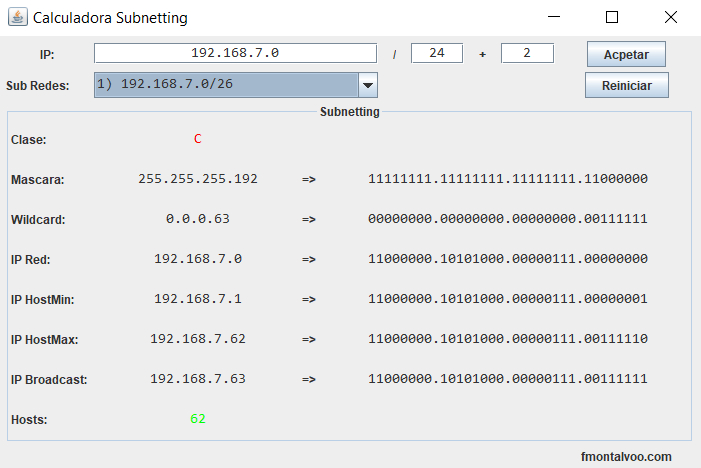
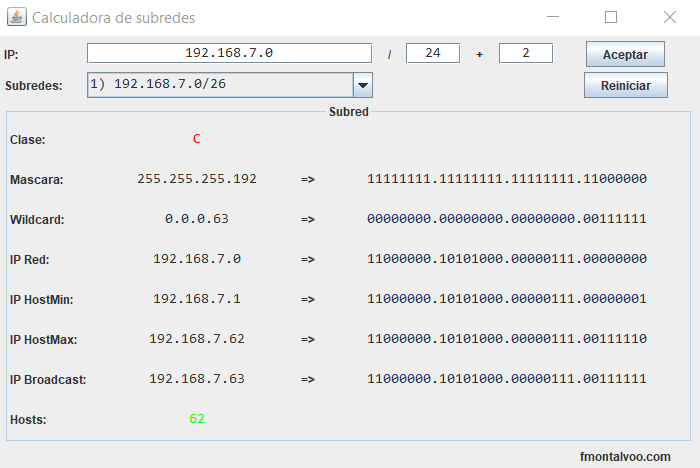
Internacionalizo aplicacion.

diff --git a/src/com/fmontalvoo/vista/Ventana.java b/src/com/fmontalvoo/vista/Ventana.java
@@ -5,6 +5,7 @@ import java.awt.Font;
 import java.awt.GridBagConstraints;
 import java.awt.GridBagLayout;
 import java.awt.Insets;
+import java.util.ResourceBundle;
 
 import javax.swing.JButton;
 import javax.swing.JComboBox;
@@ -22,6 +23,8 @@ import com.fmontalvoo.conversor.Conversor;
 public class Ventana extends JFrame {
 
 	private static final long serialVersionUID = 2375984707135285564L;
+
+	public static final String PROPERTIES = "com.fmontalvoo.i18n.Etiquetas";
 	private final String CONSOLAS = "Consolas";
 
 	private JPanel contentPane;
@@ -70,7 +73,7 @@ public class Ventana extends JFrame {
 	}
 
 	public Ventana() {
-		setTitle("Calculadora Subnetting");
+		setTitle(ResourceBundle.getBundle(PROPERTIES).getString("tituloVentana"));
 		setDefaultCloseOperation(JFrame.EXIT_ON_CLOSE);
 		setBounds(100, 100, 720, 480);
 		contentPane = new JPanel();
@@ -85,10 +88,10 @@ public class Ventana extends JFrame {
 		gbl_contentPane.rowWeights = new double[] { 0.0, 0.0, 0.0, 10.0, 0.0, Double.MIN_VALUE };
 		contentPane.setLayout(gbl_contentPane);
 
-		JLabel lblIP = new JLabel("IP:");
+		JLabel lblIP = new JLabel(ResourceBundle.getBundle(PROPERTIES).getString("lblIP") + ":");
 		GridBagConstraints gbc_lblIP = new GridBagConstraints();
 		gbc_lblIP.insets = new Insets(0, 0, 5, 5);
-		gbc_lblIP.anchor = GridBagConstraints.CENTER;
+		gbc_lblIP.anchor = GridBagConstraints.WEST;
 		gbc_lblIP.gridx = 0;
 		gbc_lblIP.gridy = 0;
 		gbc_lblIP.weightx = 1;
@@ -150,7 +153,7 @@ public class Ventana extends JFrame {
 		contentPane.add(txtBits, gbc_txtBits);
 		txtBits.setColumns(1);
 
-		btnAceptar = new JButton("Acpetar");
+		btnAceptar = new JButton(ResourceBundle.getBundle(PROPERTIES).getString("btnAceptar"));
 		GridBagConstraints gbc_btnAceptar = new GridBagConstraints();
 		gbc_btnAceptar.insets = new Insets(0, 0, 5, 0);
 		gbc_btnAceptar.gridx = 6;
@@ -158,7 +161,7 @@ public class Ventana extends JFrame {
 		gbc_btnAceptar.weightx = 2;
 		contentPane.add(btnAceptar, gbc_btnAceptar);
 
-		lblSubRedes = new JLabel("Sub Redes:");
+		lblSubRedes = new JLabel(ResourceBundle.getBundle(PROPERTIES).getString("lblSubRedes") + ":");
 		GridBagConstraints gbc_lblSubRedes = new GridBagConstraints();
 		gbc_lblSubRedes.anchor = GridBagConstraints.WEST;
 		gbc_lblSubRedes.insets = new Insets(0, 0, 5, 5);
@@ -177,7 +180,7 @@ public class Ventana extends JFrame {
 		gbc_cbxSubRedes.weightx = 5;
 		contentPane.add(cbxSubRedes, gbc_cbxSubRedes);
 
-		btnReiniciar = new JButton("Reiniciar");
+		btnReiniciar = new JButton(ResourceBundle.getBundle(PROPERTIES).getString("btnReiniciar"));
 		GridBagConstraints gbc_btnReiniciar = new GridBagConstraints();
 		gbc_btnReiniciar.insets = new Insets(0, 0, 5, 0);
 		gbc_btnReiniciar.gridx = 6;
@@ -186,7 +189,8 @@ public class Ventana extends JFrame {
 		contentPane.add(btnReiniciar, gbc_btnReiniciar);
 
 		panel = new JPanel();
-		panel.setBorder(new TitledBorder(null, "Subnetting", TitledBorder.CENTER, TitledBorder.TOP, null, null));
+		panel.setBorder(new TitledBorder(null, ResourceBundle.getBundle(PROPERTIES).getString("tituloPanel"),
+				TitledBorder.CENTER, TitledBorder.TOP, null, null));
 		GridBagConstraints gbc_panel = new GridBagConstraints();
 		gbc_panel.insets = new Insets(0, 0, 5, 0);
 		gbc_panel.gridwidth = 7;
@@ -201,7 +205,7 @@ public class Ventana extends JFrame {
 		gbl_panel.rowWeights = new double[] { 0.0, 0.0, 0.0, 0.0, 0.0, 0.0, 0.0, 0.0, Double.MIN_VALUE };
 		panel.setLayout(gbl_panel);
 
-		lblClase = new JLabel("Clase:");
+		lblClase = new JLabel(ResourceBundle.getBundle(PROPERTIES).getString("lblClase") + ":");
 		GridBagConstraints gbc_lblClase = new GridBagConstraints();
 		gbc_lblClase.insets = new Insets(0, 0, 5, 5);
 		gbc_lblClase.anchor = GridBagConstraints.WEST;
@@ -222,7 +226,7 @@ public class Ventana extends JFrame {
 		gbc_lblClass.weightx = 4;
 		panel.add(lblClass, gbc_lblClass);
 
-		lblMascara = new JLabel("Mascara:");
+		lblMascara = new JLabel(ResourceBundle.getBundle(PROPERTIES).getString("lblMascara") + ":");
 		GridBagConstraints gbc_lblMascara = new GridBagConstraints();
 		gbc_lblMascara.insets = new Insets(0, 0, 5, 5);
 		gbc_lblMascara.anchor = GridBagConstraints.WEST;
@@ -261,7 +265,7 @@ public class Ventana extends JFrame {
 		gbc_lblMaskBin.weightx = 5;
 		panel.add(lblMaskBin, gbc_lblMaskBin);
 
-		lblWildcard = new JLabel("Wildcard:");
+		lblWildcard = new JLabel(ResourceBundle.getBundle(PROPERTIES).getString("lblWildcard") + ":");
 		GridBagConstraints gbc_lblWildcard = new GridBagConstraints();
 		gbc_lblWildcard.insets = new Insets(0, 0, 5, 5);
 		gbc_lblWildcard.anchor = GridBagConstraints.WEST;
@@ -300,7 +304,7 @@ public class Ventana extends JFrame {
 		gbc_lblWildcardBin.weightx = 5;
 		panel.add(lblWildcardBin, gbc_lblWildcardBin);
 
-		lblIPRed = new JLabel("IP Red:");
+		lblIPRed = new JLabel(ResourceBundle.getBundle(PROPERTIES).getString("lblIPRed") + ":");
 		GridBagConstraints gbc_lblIPRed = new GridBagConstraints();
 		gbc_lblIPRed.insets = new Insets(0, 0, 5, 5);
 		gbc_lblIPRed.anchor = GridBagConstraints.WEST;
@@ -339,7 +343,7 @@ public class Ventana extends JFrame {
 		gbc_lblRedBin.weightx = 5;
 		panel.add(lblRedBin, gbc_lblRedBin);
 
-		lblHostMin = new JLabel("IP HostMin:");
+		lblHostMin = new JLabel(ResourceBundle.getBundle(PROPERTIES).getString("lblHostMin") + ":");
 		GridBagConstraints gbc_lblHostMin = new GridBagConstraints();
 		gbc_lblHostMin.insets = new Insets(0, 0, 5, 5);
 		gbc_lblHostMin.anchor = GridBagConstraints.WEST;
@@ -378,7 +382,7 @@ public class Ventana extends JFrame {
 		gbc_lblHostMinBin.weightx = 5;
 		panel.add(lblHostMinBin, gbc_lblHostMinBin);
 
-		lblHostMax = new JLabel("IP HostMax:");
+		lblHostMax = new JLabel(ResourceBundle.getBundle(PROPERTIES).getString("lblHostMax") + ":");
 		GridBagConstraints gbc_lblHostMax = new GridBagConstraints();
 		gbc_lblHostMax.insets = new Insets(0, 0, 5, 5);
 		gbc_lblHostMax.anchor = GridBagConstraints.WEST;
@@ -417,7 +421,7 @@ public class Ventana extends JFrame {
 		gbc_lblHostMaxBin.weightx = 5;
 		panel.add(lblHostMaxBin, gbc_lblHostMaxBin);
 
-		lblBroadcast = new JLabel("IP Broadcast:");
+		lblBroadcast = new JLabel(ResourceBundle.getBundle(PROPERTIES).getString("lblBroadcast") + ":");
 		GridBagConstraints gbc_lblBroadcast = new GridBagConstraints();
 		gbc_lblBroadcast.insets = new Insets(0, 0, 5, 5);
 		gbc_lblBroadcast.anchor = GridBagConstraints.WEST;
@@ -456,7 +460,7 @@ public class Ventana extends JFrame {
 		gbc_lblBroadcastBin.weightx = 5;
 		panel.add(lblBroadcastBin, gbc_lblBroadcastBin);
 
-		lblHosts = new JLabel("Hosts:");
+		lblHosts = new JLabel(ResourceBundle.getBundle(PROPERTIES).getString("lblHosts") + ":");
 		GridBagConstraints gbc_lblHosts = new GridBagConstraints();
 		gbc_lblHosts.insets = new Insets(0, 0, 0, 5);
 		gbc_lblHosts.anchor = GridBagConstraints.WEST;

diff --git a/src/com/fmontalvoo/controlador/Controlador.java b/src/com/fmontalvoo/controlador/Controlador.java
@@ -2,6 +2,7 @@ package com.fmontalvoo.controlador;
 
 import java.awt.event.ActionEvent;
 import java.awt.event.ActionListener;
+import java.util.ResourceBundle;
 
 import javax.swing.JOptionPane;
 
@@ -47,7 +48,7 @@ public class Controlador implements ActionListener {
 	}
 
 	public void submit() {
-		if (validar(this.vista.txtMascara.getText()) || this.conversor.validar(this.vista.txtIP.getText())) {
+		if (validar(this.vista.txtMascara.getText()) && this.conversor.validar(this.vista.txtIP.getText())) {
 			octetos = this.vista.txtIP.getText().split("\\.");
 			mascara = Integer.valueOf(this.vista.txtMascara.getText());
 			ipBinaria = this.conversor.ipBinaria(octetos);
@@ -66,8 +67,9 @@ public class Controlador implements ActionListener {
 			} else
 				subnetting();
 		} else
-			JOptionPane.showMessageDialog(this.vista, "Por favor verifique la IP e intentelo nuevamente",
-					"IP mal igresada", 0);
+			JOptionPane.showMessageDialog(this.vista,
+					ResourceBundle.getBundle(Ventana.PROPERTIES).getString("descripcionErrorIP"),
+					ResourceBundle.getBundle(Ventana.PROPERTIES).getString("tituloErrorIP"), 0);
 	}
 
 	public void reset() {
@@ -113,6 +115,8 @@ public class Controlador implements ActionListener {
 	}
 
 	private boolean validar(String linea) {
+		if (linea == null || linea.isEmpty())
+			return false;
 		try {
 			if (Integer.parseInt(linea) > 30)
 				return false;
@@ -136,11 +140,13 @@ public class Controlador implements ActionListener {
 					this.vista.cbxSubRedes.addItem(subRedes[i]);
 				}
 			} else
-				JOptionPane.showMessageDialog(this.vista, "La mascara de red no puede ser mayor a 30",
-						"Error de mascara", 0);
+				JOptionPane.showMessageDialog(this.vista,
+						ResourceBundle.getBundle(Ventana.PROPERTIES).getString("descripcionErrorMascara"),
+						ResourceBundle.getBundle(Ventana.PROPERTIES).getString("tituloErrorMascara"), 0);
 		} else
-			JOptionPane.showMessageDialog(this.vista, "Por favor verifique que los datos ingresados sean numericos",
-					"Macara de Red mal ingresada", 0);
+			JOptionPane.showMessageDialog(this.vista,
+					ResourceBundle.getBundle(Ventana.PROPERTIES).getString("descripcionMascaraIncorrecta"),
+					ResourceBundle.getBundle(Ventana.PROPERTIES).getString("tituloMascaraIncorrecta"), 0);
 	}
 
 	private void showAnswer() {

diff --git a/src/com/fmontalvoo/conversor/Conversor.java b/src/com/fmontalvoo/conversor/Conversor.java
@@ -110,6 +110,8 @@ public class Conversor {
 	}
 
 	public boolean validar(String datos) {
+		if (datos == null || datos.isEmpty())
+			return false;
 
 		String octetos[] = datos.split("\\.");
 
